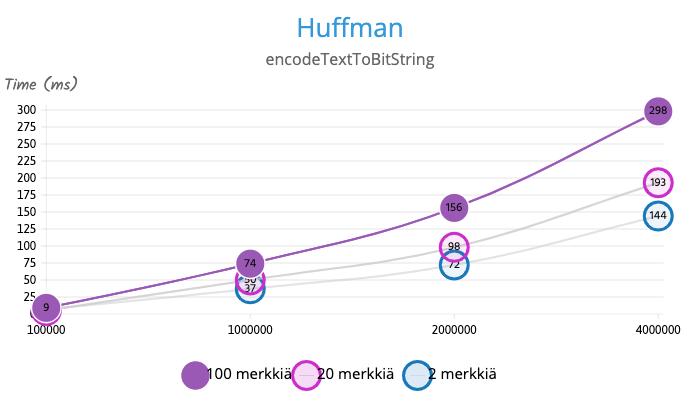
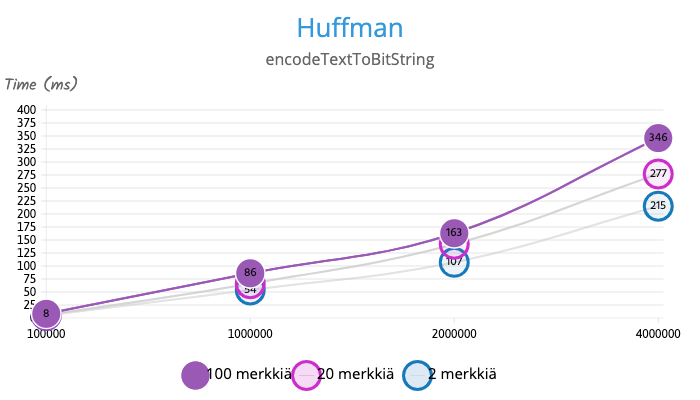
Graafit huffmanille

diff --git a/documentation/toteutusdokumentti.md b/documentation/toteutusdokumentti.md
@@ -109,18 +109,35 @@ Rivit 1, 2, 3 ja 5 suoriutuvat vakioajassa O(1), mutta rivin 4 heapifyn takia po
 
 ### Huffman
 
+#### encode
+
 Raportissa on listattu myös Huffman luokan encodeTextToBitString-metodin suoritusaikoja erilaisille syötteille. Tässä on eräs raportti:
 
 Erilaisten merkkien määrät ovat 2, 20 ja 100.
 
 Syötteen pituus | 2 | 20 | 100
 --- | --- | --- | ---
-100000 | 7 | 5 | 9
-1000000 | 37 | 50 | 74
-2000000 | 72 | 98 | 156
-4000000 | 144 | 193 | 298
+100000 | 5 | 6 | 8
+1000000 | 54 | 66 | 86
+2000000 | 107 | 142 | 163
+4000000 | 215 | 277 | 346
 
 <img src="https://raw.githubusercontent.com/Pate1337/PaavonTiedostoPakkaaja/master/documentation/kuvat/chart3.png" width="750">
+
+#### decode
+
+Eräs raportti decodeBitStringToText-metodille.
+
+Erilaisten merkkien määrät ovat 2, 20 ja 100.
+
+Syötteen pituus | 2 | 20 | 100
+--- | --- | --- | ---
+100000 | 2 | 4 | 7
+1000000 | 15 | 45 | 70
+2000000 | 32 | 91 | 156
+4000000 | 76 | 190 | 278
+
+<img src="https://raw.githubusercontent.com/Pate1337/PaavonTiedostoPakkaaja/master/documentation/kuvat/chart4.png" width="750">
 
 ## Puutteet ja parannusehdotukset
 
